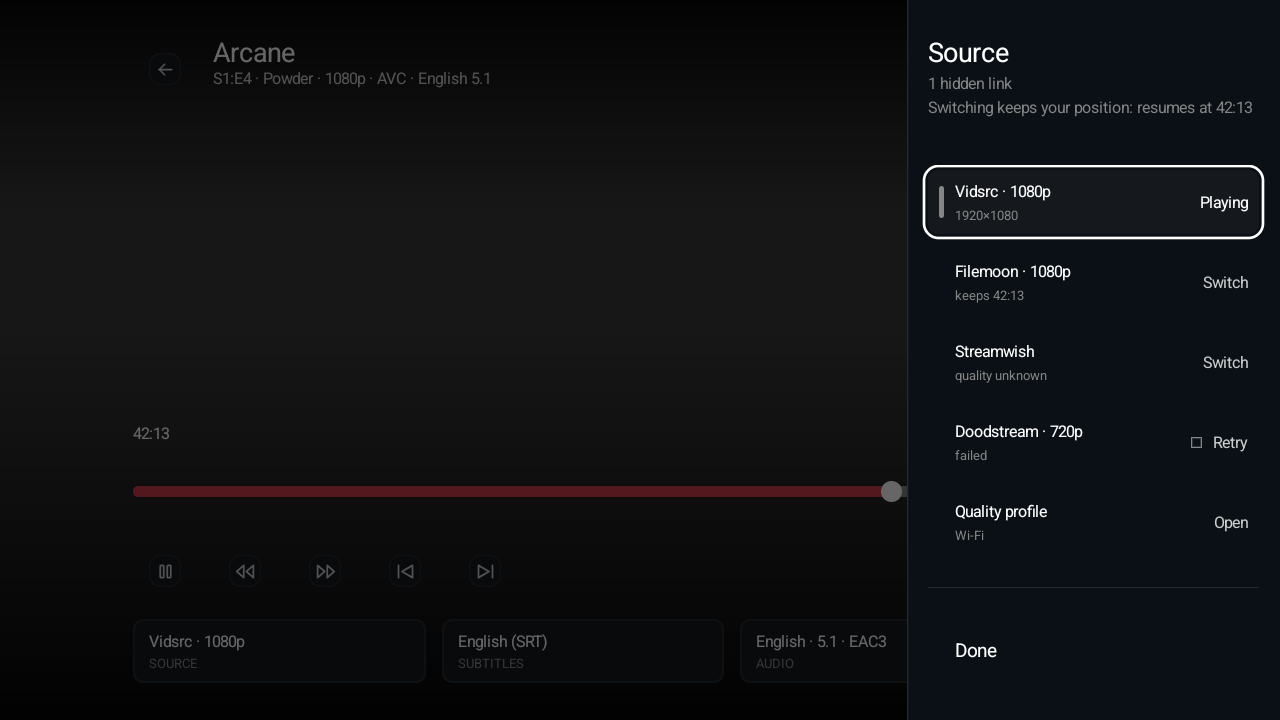
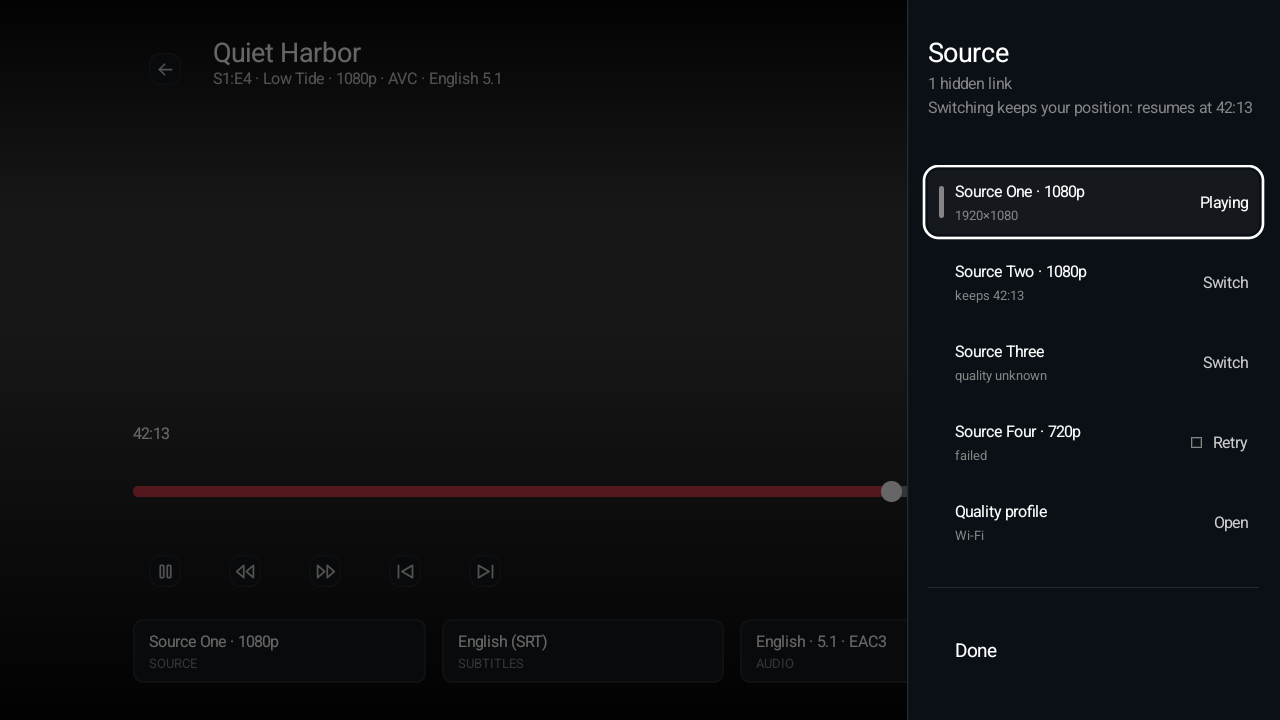
BUG-74: made-up source and title names in train 9's player panels
#205's panel tests, screenshots and two KDoc examples named real streaming
sites and real titles. They now use DS-23's made-up names, and BUG-70's
where master already has one, so the later merge keeps both. Every
property a test reads is kept. The five playback-panel references are
re-recorded after the diff was read: every changed pixel is in a line
whose words changed. No code that runs changes.

diff --git a/feature/player/src/androidDeviceTest/kotlin/com/lagradost/cloudstream4/feature/player/tv/PlaybackPanelTvDeviceTest.kt b/feature/player/src/androidDeviceTest/kotlin/com/lagradost/cloudstream4/feature/player/tv/PlaybackPanelTvDeviceTest.kt
@@ -87,28 +87,28 @@ class PlaybackPanelTvDeviceTest {
     @Test
     fun sourceOpensThePanelWithFocusInsideItAndDoneGivesItBackToSource() {
         show()
-        assertTrue("Down from play/pause is SOURCE", startsWith(dpad.press(Dpad.Down), "Vidsrc"))
+        assertTrue("Down from play/pause is SOURCE", startsWith(dpad.press(Dpad.Down), "Source One"))
         dpad.center()
         rule.waitForIdle()
         rule.onNodeWithText("Switching keeps your position: resumes at 42:13").assertExists()
-        assertTrue("Focus entered the panel's first row, was ${dpad.focused()}", startsWith(dpad.focused(), "Vidsrc · 1080p"))
+        assertTrue("Focus entered the panel's first row, was ${dpad.focused()}", startsWith(dpad.focused(), "Source One · 1080p"))
 
-        assertTrue(startsWith(dpad.press(Dpad.Down), "Filemoon"))
-        assertTrue("Left stays in the panel", startsWith(dpad.press(Dpad.Left), "Filemoon"))
-        assertTrue("Right stays in the panel", startsWith(dpad.press(Dpad.Right), "Filemoon"))
+        assertTrue(startsWith(dpad.press(Dpad.Down), "Source Two"))
+        assertTrue("Left stays in the panel", startsWith(dpad.press(Dpad.Left), "Source Two"))
+        assertTrue("Right stays in the panel", startsWith(dpad.press(Dpad.Right), "Source Two"))
         repeat(4) { dpad.press(Dpad.Down) }
         assertEquals("Done", dpad.focused())
 
         dpad.center()
         rule.waitForIdle()
-        rule.waitUntil(WAIT_MS) { startsWith(dpad.focused(), "Vidsrc · 1080p") && open == null }
-        assertTrue("Focus went back to SOURCE", startsWith(dpad.focused(), "Vidsrc · 1080p"))
+        rule.waitUntil(WAIT_MS) { startsWith(dpad.focused(), "Source One · 1080p") && open == null }
+        assertTrue("Focus went back to SOURCE", startsWith(dpad.focused(), "Source One · 1080p"))
     }
 
     @Test
     fun pressingARowIsTheCommit() {
         show(initial = Panels.getValue(PanelKind.Source))
-        assertTrue(startsWith(dpad.press(Dpad.Down), "Filemoon"))
+        assertTrue(startsWith(dpad.press(Dpad.Down), "Source Two"))
         dpad.center()
         rule.waitForIdle()
         assertEquals(PlayerHudAction.PanelRowPressed(PanelKind.Source, "source:1"), actions.last())
@@ -243,9 +243,9 @@ class PlaybackPanelTvDeviceTest {
         val Frame = Color(0xFF3A3A3A)
 
         val Hud = PlayerHudState(
-            title = "Arcane", meta = "S1:E4 · Powder · 1080p · AVC · English 5.1", playing = true,
+            title = "Quiet Harbor", meta = "S1:E4 · Low Tide · 1080p · AVC · English 5.1", playing = true,
             positionMs = 2_533_000, durationMs = 3_704_000, bufferedMs = 3_170_000, hasPrevious = true, hasNext = true,
-            source = "Vidsrc · 1080p", subtitles = "English (SRT)", audio = "English · 5.1 · EAC3",
+            source = "Source One · 1080p", subtitles = "English (SRT)", audio = "English · 5.1 · EAC3",
         )
 
         /** 7e's `praw`, `arawA` and `arawB`. */
@@ -255,10 +255,10 @@ class PlaybackPanelTvDeviceTest {
                 title = "Source",
                 meta = listOf("1 hidden link", "Switching keeps your position: resumes at 42:13"),
                 rows = listOf(
-                    PanelRow("source:0", "Vidsrc · 1080p", "1920×1080", RowVerb.Playing, active = true),
-                    PanelRow("source:1", "Filemoon · 1080p", "keeps 42:13", RowVerb.Switch),
-                    PanelRow("source:2", "Streamwish", "quality unknown", RowVerb.Switch),
-                    PanelRow("source:3", "Doodstream · 720p", "failed", RowVerb.Retry, failed = true),
+                    PanelRow("source:0", "Source One · 1080p", "1920×1080", RowVerb.Playing, active = true),
+                    PanelRow("source:1", "Source Two · 1080p", "keeps 42:13", RowVerb.Switch),
+                    PanelRow("source:2", "Source Three", "quality unknown", RowVerb.Switch),
+                    PanelRow("source:3", "Source Four · 720p", "failed", RowVerb.Retry, failed = true),
                     PanelRow("profile", "Quality profile", "Wi-Fi", RowVerb.Open),
                 ),
             ),

diff --git a/app/src/test/java/com/lagradost/cloudstream4/player/TvPanelRowsTest.kt b/app/src/test/java/com/lagradost/cloudstream4/player/TvPanelRowsTest.kt
@@ -17,7 +17,7 @@ class TvPanelRowsTest {
 
     @Suppress("DEPRECATION")
     private fun link(name: String, quality: Int = 1080) = ExtractorLink(
-        source = "vidsrc",
+        source = "sourceone",
         name = name,
         url = "https://stream.example.invalid/$SECRET/master.m3u8?token=$TOKEN",
         referer = "https://referer.example.invalid/$SECRET",
@@ -38,15 +38,15 @@ class TvPanelRowsTest {
 
     @Test
     fun aSourceRowIsItsNameAndQuality() {
-        assertEquals("Vidsrc · 1080p", TvPanelRows.sourceTitle(link("Vidsrc"), null, "Source 1"))
-        assertEquals("Vidsrc · 4K", TvPanelRows.sourceTitle(link("Vidsrc", Qualities.P2160.value), null, "Source 1"))
-        assertEquals("Streamwish", TvPanelRows.sourceTitle(link("Streamwish", Qualities.Unknown.value), null, "Source 1"))
+        assertEquals("Source One · 1080p", TvPanelRows.sourceTitle(link("Source One"), null, "Source 1"))
+        assertEquals("Source One · 4K", TvPanelRows.sourceTitle(link("Source One", Qualities.P2160.value), null, "Source 1"))
+        assertEquals("Source Three", TvPanelRows.sourceTitle(link("Source Three", Qualities.Unknown.value), null, "Source 1"))
     }
 
     @Test
     fun noUrlTokenOrHeaderReachesASourceRow() {
         for (name in listOf(
-            "Vidsrc",
+            "Source One",
             "https://cdn.example.invalid/$SECRET",
             "cdn.host.to/v/$SECRET?token=$TOKEN",
             "host.com:8443/$SECRET",

diff --git a/app/src/main/java/com/lagradost/cloudstream4/player/TvHudFacts.kt b/app/src/main/java/com/lagradost/cloudstream4/player/TvHudFacts.kt
@@ -86,11 +86,11 @@ private fun looksLikeAddress(text: String, host: Regex): Boolean {
 
 /**
  * A host at the start, with an optional port, then a path, query or fragment or the end: `cdn.host.to/v`, `a.com:8443`,
- * `stream.example.to`. For a source's or subtitle's name only: as a title it would blank `Dr.Stone` and `Mr.Robot`.
+ * `stream.example.to`. For a source's or subtitle's name only: as a title it would blank `Dr.Harbor` and `Mr.Lantern`.
  */
 private val BARE_HOST = Regex("""^[\w.-]+\.[a-z]{2,}(:\d+)?([/?#]|$)""")
 
-/** The same host, but only with a port, path, query or fragment after it: a title is never just `Dr.Stone`'s shape. */
+/** The same host, but only with a port, path, query or fragment after it: a title is never just `Dr.Harbor`'s shape. */
 private val HOST_WITH_TAIL = Regex("""^[\w.-]+\.[a-z]{2,}(:\d+|[/?#])""")
 private val STRICT_CHARACTERS = setOf('?', '=', '/', '\\')
 

diff --git a/app/src/main/java/com/lagradost/cloudstream4/player/TvPanelRows.kt b/app/src/main/java/com/lagradost/cloudstream4/player/TvPanelRows.kt
@@ -14,7 +14,7 @@ import com.lagradost.cloudstream3.utils.Qualities
 internal object TvPanelRows {
 
     /**
-     * `Vidsrc · 1080p`. A name that is missing or reads as an address gives [fallback] (`Source 2`); a quality the
+     * `Source One · 1080p`. A name that is missing or reads as an address gives [fallback] (`Source 2`); a quality the
      * provider did not give is left out, and the row's detail says `quality unknown` instead.
      */
     fun sourceTitle(link: ExtractorLink?, file: ExtractorUri?, fallback: String): String {

diff --git a/app/src/test/java/com/lagradost/cloudstream4/player/TvHudFactsTest.kt b/app/src/test/java/com/lagradost/cloudstream4/player/TvHudFactsTest.kt
@@ -127,7 +127,7 @@ class TvHudFactsTest {
     /** Titles keep their punctuation and dotted words (review of `KMP-64`): only an address is dropped from them. */
     @Test
     fun aTitleWithAQuestionMarkStays() {
-        for (title in listOf("What If...?", "Dr.Stone", "Mr.Robot", "Vol.II")) {
+        for (title in listOf("Harbor Lights...?", "Dr.Harbor", "Mr.Lantern", "Vol.II")) {
             assertEquals(title, facts(title = title).toHudState().title)
         }
         // A title that is an address still goes.

diff --git a/docs/tasks/defects.md b/docs/tasks/defects.md
@@ -2650,3 +2650,43 @@ reaches into Compose internals.
 - The same pair with `BUG-69`'s fix, which is train 9's real state: 20/0, three runs in three.
 - The full `:app` device suite: 173 tests, 0 failures, 1 skipped. The skip is `TvHomeRealPluginProof`, which is skipped
   unless a plugin has been pushed to the device. No test relied on animations running.
+
+## BUG-74 — Train 9's player panels named real sites and titles · **low, test only**
+
+**Status:** fixed in this PR · the PM's call, 2026-11-08 · the rule `BUG-70` applied to `#205`
+
+`#205` (TV player panels) came with the names of real streaming sites ("Vidsrc", "Filemoon", "Streamwish", "Doodstream")
+and real titles ("Arcane", "Powder", "What If...?", "Dr.Stone", "Mr.Robot"), in tests, screenshots and two KDoc
+examples. Tests, screenshots and previews get copied, so they use names that belong to no real title or site, as
+`DS-23` set.
+
+**Fix.** Test code, two KDoc comments and one line in `kmp.md`. No code that runs changes:
+
+| Was | Now |
+|---|---|
+| "Vidsrc", source id `vidsrc` | "Source One", `sourceone` |
+| "Filemoon", "Streamwish", "Doodstream" | "Source Two", "Source Three", "Source Four" |
+| "Arcane", "Powder" | "Quiet Harbor", "Low Tide" (`BUG-70`'s) |
+| "What If...?" | "Harbor Lights...?" (`BUG-70`'s, so the later merge with master keeps both) |
+| "Dr.Stone", "Mr.Robot" | "Dr.Harbor", "Mr.Lantern" |
+
+Every property a test depends on is kept:
+- The dotted titles keep their shape. Lowercased, they match `BARE_HOST` and do not match `HOST_WITH_TAIL`, as the old
+  ones did, so `aTitleWithAQuestionMarkStays` still checks that a title of a host's shape is kept.
+- The four source rows still start with four different words, so each focus assertion still tells them apart.
+- A source with no quality still has a name alone ("Source Three").
+
+**Screenshots.** All five `playback-panel-*` references changed. `source` differed in 8,687 pixels, and the other four
+in 4,740 each. The diff was read before recording. Every changed pixel lies inside the lines whose words changed (the
+title, the episode line and the SOURCE cell, and in `source` also the four source rows), and nothing else moved.
+
+**Proof,** all local on `Television_720p` (CI is off):
+- `PlaybackPanelTvDeviceTest`: before the re-record, 10 tests with 5 failures (the five screenshots). After it, 10/0
+  three times in a row, with all five screenshots identical (0 pixels).
+- `TvPlaybackPanelsNavigationTest` (`:app`): 5/0.
+- `TvHudFactsTest` 8/0 and `TvPanelRowsTest` 3/0 (JVM).
+
+**Still in the tree, not from `#205`.** A scan of train 9 finds about 466 lines in some 60 files that name real titles
+or sites, nearly all already on master: "Dune" (307), "Witcher" (105), "Vidsrc" (28), "Arcane" (26), "Severance",
+"Nine Lives", "Gogoanime", "Naruto", "Internet Archive". `BUG-70` fixes the HUD tests' share on master. The rest is
+for its own task.

diff --git a/docs/tasks/kmp.md b/docs/tasks/kmp.md
@@ -6411,7 +6411,7 @@ nothing, so no test writes to the real home directory. Escape closes whichever p
 - `TvPanelRowsTest` (`:app` JVM, 3): row words; no URL, token or header in a source row or a subtitle row; address names dropped to the fallback.
 - `PlaybackPanelTvDeviceTest` (device, 10): SOURCE opens the panel with focus on the playing row, Up/Down only, Done returns focus to SOURCE; a press is the commit; SUBTITLES opens its own; closing a panel gives focus back to the AUDIO or SUBTITLES selector that opened it, compared by node, since AUDIO's value and the Audio panel's first row read the same; seven rows: the five that fit don't move the list, and each past the fifth moves it by one whole pitch, whole between the header and the rule (on the pre-`RowScroll` list it fails: "A row that fits scrolled Arabic out of the list"); screenshots `playback-panel-source`, `-subtitles`, `-subtitle-variants`, `-audio`, `-empty-offline`, each looked at.
 - `TvPlaybackPanelsNavigationTest` (`:app`, the real path, 5): one episode from two sources, each a silent local copy (-91 dB, volume 0). Switching while playing keeps playing at the position; switching while paused stays paused at the position; BACK closes the panel and stays in the player; two fast BACKs close the panel and then leave; no path on screen.
-- `KMP-64`'s own: HUD device 14/0 with its six screenshots unchanged, real path 4/0, `TvHudFactsTest` 8/0 with the review's title cases (`Dr.Stone`, `Mr.Robot`, `Vol.II` kept).
+- `KMP-64`'s own: HUD device 14/0 with its six screenshots unchanged, real path 4/0, `TvHudFactsTest` 8/0 with the review's title cases (dotted words such as `Vol.II` kept).
 
 ### Not verified
 
